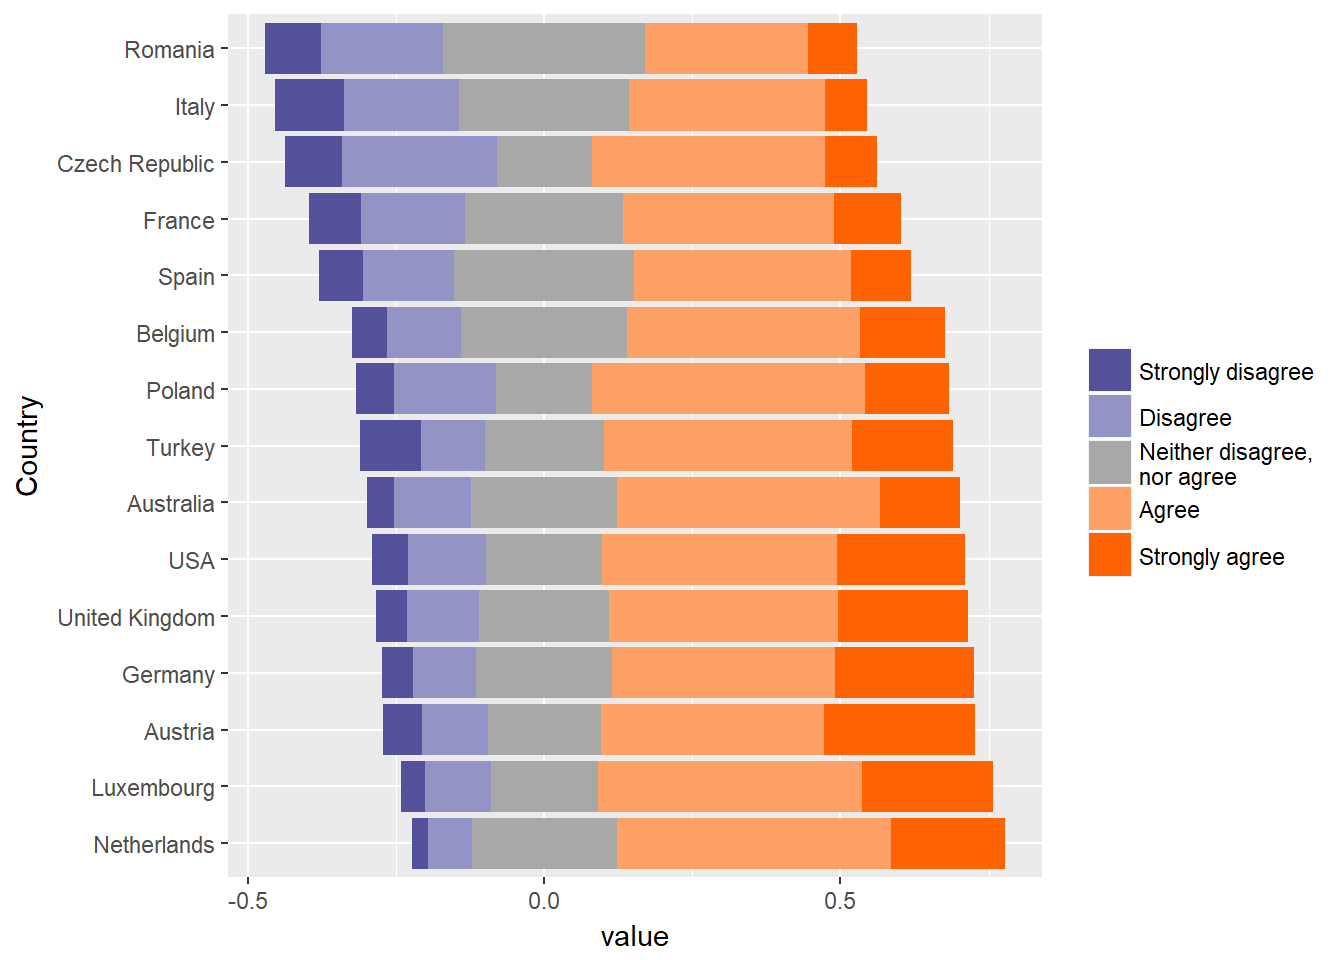
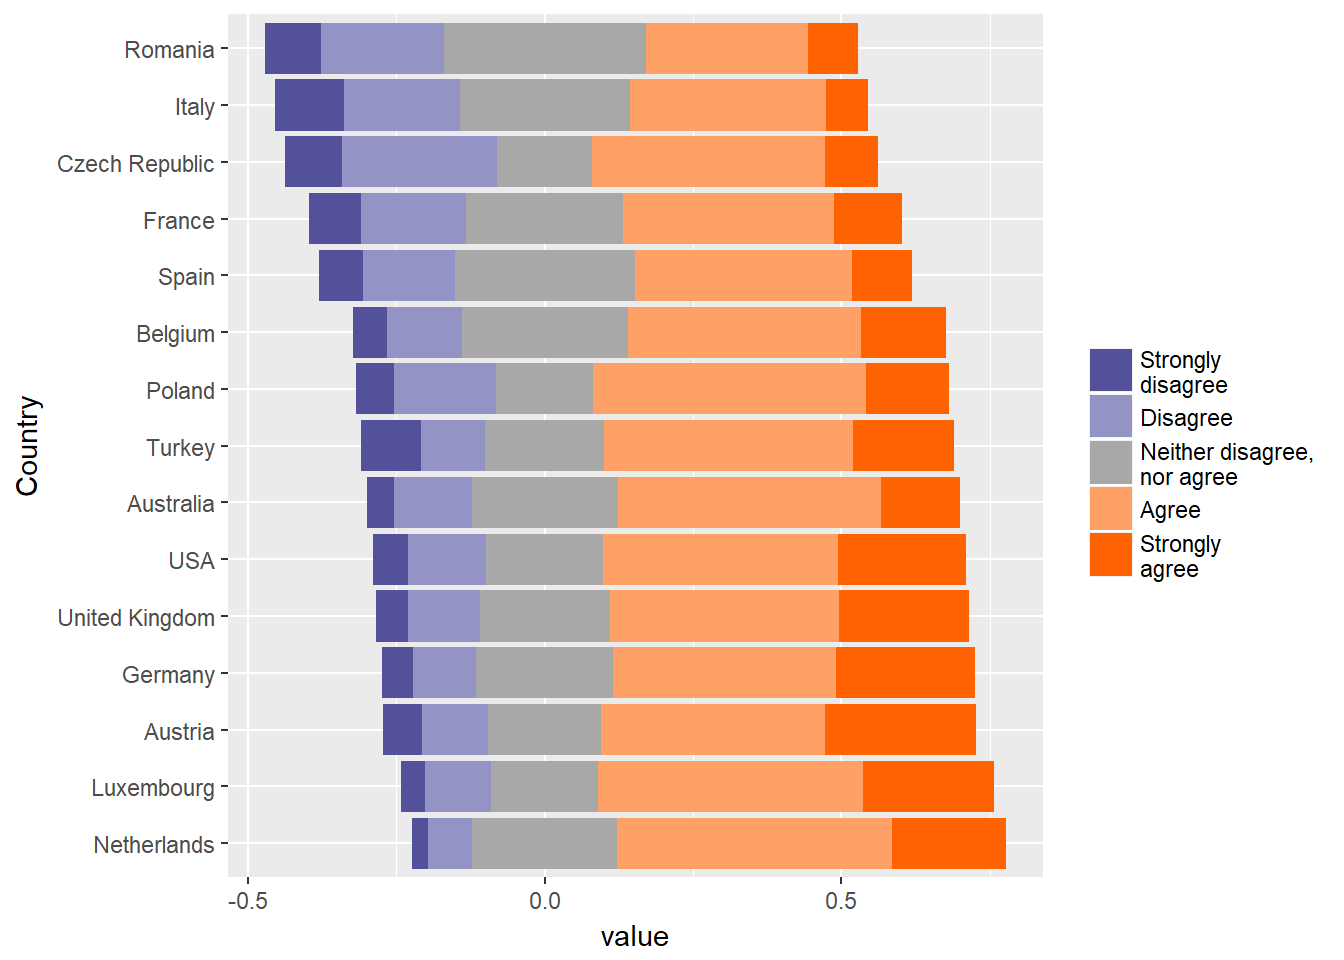
Lots of corrections.
Added coloring of data-labels. Bright on dark background and dark on bright background.

Changed region(s): [[0.8438, 0.3438, 0.9688, 0.625]]

diff --git a/plots.html b/plots.html
@@ -214,8 +214,8 @@ $(document).ready(function () {
 <li><p>The first one is more tedious, but allows for more flexibility. It uses <em>ggplot2</em> package and “geom_bar” aestethics. You can find it’s description here: <a href="http://rnotr.com/likert/ggplot/barometer/likert-plots/" class="uri">http://rnotr.com/likert/ggplot/barometer/likert-plots/</a></p></li>
 <li><p>The second one comes from the same author (<a href="http://rnotr.com/likert/ggplot/barometer/likert-plotly/" class="uri">http://rnotr.com/likert/ggplot/barometer/likert-plotly/</a>) and also uses <em>ggplot2</em> but with “geom_segment” aestethics. It is simpler and more concise, but also blocks “color” argument for other use on the chart. This might be a problem if you want to have data-labels on the chart and color them black on light background and white on dark background.</p></li>
 </ol>
-<div id="preparing-data." class="section level2">
-<h2>1. Preparing data.</h2>
+<div id="step-1.-preparing-data." class="section level2">
+<h2>Step 1. Preparing data.</h2>
 <p>Let’s start with preparing some survey data, accoring to a recipe described in “Home” tab.</p>
 <pre class="r"><code>data_2 &lt;- read.csv(&quot;survey_data.csv&quot;)
 answers &lt;- names(wpct(data_2$Question, weight = data_2$WeightPerCountry))
@@ -371,15 +371,25 @@ Germany
 </tr>
 </tbody>
 </table>
-<p>Our first step in obtaining Likert-style plot is to divide the middle group (in our case: “Neither agree nor disagree” group) into two equal subgroups. To do that mutate freq_table in the following way and then order the columns from least agreeable to most agreeable (getting rid of now obsolete <code>Neither agree nor disagree</code> column in the process).</p>
+<p>Our first step in obtaining Likert-style plot is to divide the middle group (in our case: “Neither agree nor disagree” group) into two equal subgroups. To do that mutate freq_table in the following way and then order the columns from least agreeable to most agreeable (getting rid of now obsolete <code>Neither agree nor disagree</code> column in the process). I will also add variables for negative data-labels positions (label_position for “Disagree” and label_position_2 for “Strongly disagree”). I will go back to them later.</p>
 <pre class="r"><code>freq_table_2 &lt;- freq_table_2 %&gt;% 
   mutate(Midlow = `Neither agree nor disagree`/2,
-         Midhigh = `Neither agree nor disagree`/2)
+         Midhigh = `Neither agree nor disagree`/2,
+         label_position = - Midlow - Disagree/2,
+         label_position_2 = - Midlow - Disagree - `Strongly disagree`/2)
 
-freq_table_2 &lt;- freq_table_2[c(1, 6, 3, 7, 8, 2, 5)]</code></pre>
-<p>Third step is to transform your data into a long format. One popular way of doing it is to use <em>melt</em> function from <em>reshape2</em> package. However, if you like to stay within <em>tidyverse</em> framework you may use a <em>gather</em> function from <em>dplyr</em> package. Let’s use it then…</p>
+freq_table_2 &lt;- freq_table_2[c(1, 6, 3, 7, 8, 2, 5, 9, 10)]
+
+# Transforming data-frame into a long format
+freq_table_long_2 &lt;- freq_table_2 %&gt;% 
+  gather(key = &quot;key&quot;, value = &quot;value&quot;, 2:7, - Country, - label_position, - label_position_2)</code></pre>
+<p>Third step is to transform your data into a long format. One popular way of doing it is to use <em>melt</em> function from <em>reshape2</em> package. However, if you like to stay within <em>tidyverse</em> framework you may use a <em>gather</em> function from <em>dplyr</em> package. I will also take this opportunity, to integrate two label_position variables into one (by <em>ifelse</em> statement) and add a label_color variable. I will use it to put white data-labels on dark background and black data-labels on bright background. I’ll explain that later</p>
+<p>However, long data format itself is not enough. You need to arrange it in the right way. Let’s start with the answers (denoted here as “key”). You need to define them as factor with levels spanning from least to most favourable (from “Strongly disagree” to “Strongly agree”) remembering that you got “Midhigh” and “Midlow” instead of one middle answer.</p>
+<p>Next, the countries or other variable you’d like to show on the plot. These are factors as well and you need to arrange them according to the length of the bar on the left or right of the neutral line on the plot.</p>
 <pre class="r"><code>freq_table_long_2 &lt;- freq_table_2 %&gt;% 
-  gather(key = &quot;key&quot;, value = &quot;value&quot;, 2:7, - Country)
+  gather(key = &quot;key&quot;, value = &quot;value&quot;, 2:7, - Country) %&gt;% 
+  mutate(label_position = ifelse(key == &quot;Strongly disagree&quot;, label_position_2, label_position), 
+         label_color = ifelse(key == &quot;Strongly agree&quot; | key == &quot;Strongly disagree&quot;, &quot;a&quot;, &quot;b&quot;)) # a variable to differentiate label-color depending on the background.
 
 freq_table_long_2$key &lt;- factor(freq_table_long_2$key, 
                                 levels = c(&quot;Strongly disagree&quot;,
@@ -397,11 +407,20 @@ to obtain:
 <th style="text-align:left;">
 Country
 </th>
+<th style="text-align:right;">
+label_position
+</th>
+<th style="text-align:right;">
+label_position_2
+</th>
 <th style="text-align:left;">
 key
 </th>
 <th style="text-align:right;">
 value
+</th>
+<th style="text-align:left;">
+label_color
 </th>
 </tr>
 </thead>
@@ -410,16 +429,31 @@ value
 <td style="text-align:left;">
 Australia
 </td>
+<td style="text-align:right;">
+-0.2764248
+</td>
+<td style="text-align:right;">
+-0.2764248
+</td>
 <td style="text-align:left;">
 Strongly disagree
 </td>
 <td style="text-align:right;">
 0.0452213
 </td>
+<td style="text-align:left;">
+a
+</td>
 </tr>
 <tr>
 <td style="text-align:left;">
 Austria
+</td>
+<td style="text-align:right;">
+-0.2395210
+</td>
+<td style="text-align:right;">
+-0.2395210
 </td>
 <td style="text-align:left;">
 Strongly disagree
@@ -427,10 +461,19 @@ Strongly disagree
 <td style="text-align:right;">
 0.0666986
 </td>
+<td style="text-align:left;">
+a
+</td>
 </tr>
 <tr>
 <td style="text-align:left;">
 Belgium
+</td>
+<td style="text-align:right;">
+-0.2944392
+</td>
+<td style="text-align:right;">
+-0.2944392
 </td>
 <td style="text-align:left;">
 Strongly disagree
@@ -438,10 +481,19 @@ Strongly disagree
 <td style="text-align:right;">
 0.0585932
 </td>
+<td style="text-align:left;">
+a
+</td>
 </tr>
 <tr>
 <td style="text-align:left;">
 Czech Republic
+</td>
+<td style="text-align:right;">
+-0.3900154
+</td>
+<td style="text-align:right;">
+-0.3900154
 </td>
 <td style="text-align:left;">
 Strongly disagree
@@ -449,10 +501,19 @@ Strongly disagree
 <td style="text-align:right;">
 0.0961085
 </td>
+<td style="text-align:left;">
+a
+</td>
 </tr>
 <tr>
 <td style="text-align:left;">
 France
+</td>
+<td style="text-align:right;">
+-0.3532435
+</td>
+<td style="text-align:right;">
+-0.3532435
 </td>
 <td style="text-align:left;">
 Strongly disagree
@@ -460,16 +521,28 @@ Strongly disagree
 <td style="text-align:right;">
 0.0888440
 </td>
+<td style="text-align:left;">
+a
+</td>
 </tr>
 <tr>
 <td style="text-align:left;">
 Germany
+</td>
+<td style="text-align:right;">
+-0.2476035
+</td>
+<td style="text-align:right;">
+-0.2476035
 </td>
 <td style="text-align:left;">
 Strongly disagree
 </td>
 <td style="text-align:right;">
 0.0525690
+</td>
+<td style="text-align:left;">
+a
 </td>
 </tr>
 </tbody>
@@ -496,13 +569,15 @@ highs$key &lt;- factor(highs$key, levels = c(&quot;Strongly agree&quot;,&quot;Ag
   coord_flip()</code></pre>
 <p><img src="plots_files/figure-html/unnamed-chunk-7-1.png" width="672" /></p>
 </div>
-<div id="adding-colors." class="section level2">
-<h2>2. Adding colors.</h2>
-<p>In order to align colors on the chart and on the legend you need to specify two palettes. One for legend - with separate color for each Likert-scale answer. And the other one with doubled color for the middle answer on the Likert scale (for “Midlow” and “Midhigh” separately). Moreover, we need to specify what will appear on the legend. I usually work with palette with violets for negative answers and oranges for positive ones with grey reserved for ambiguity:</p>
+<div id="step-2.-adding-colors." class="section level2">
+<h2>Step 2. Adding colors.</h2>
+<p>I like to design colors on the Likert plot in a way that makes the chart more intuitive and easier to read. The following rules seem to help in my opinion: * Assign warm colors for positive answers and cold colors for negative. * Assign saturated colors to strong answers (e.g. “Strongly agree”) and less saturated for more balanced opinions. * Assign grey color for ambiguity.</p>
+<p>For Likert-plot you need to specify two palettes. One for legend - with separate color for each Likert-scale answer. And the other one with doubled color for the middle answer on the Likert scale (for “Midlow” and “Midhigh” separately). Moreover, we need to specify what will appear on the legend. I also specify a third palette for colors of data-labels (just two of them: white and dark grey).</p>
 <pre class="r"><code>palette_legend &lt;- c(&quot;#525199&quot;, &quot;#9393C6&quot;, &quot;#A8A8A8&quot;, &quot;#FFA166&quot;, &quot;#FF6200&quot;)
 palette_plot &lt;- c(&quot;#525199&quot;, &quot;#9393C6&quot;, &quot;#A8A8A8&quot;, &quot;#A8A8A8&quot;, &quot;#FFA166&quot;, &quot;#FF6200&quot;)
+palette_labels &lt;- c(&quot;white&quot;, grey(.2))
 
-legend &lt;- c(&quot;Strongly disagree&quot;, &quot;Disagree&quot;, &quot;Neither disagree,\nnor agree&quot;, &quot;Agree&quot;, &quot;Strongly agree&quot;)</code></pre>
+legend &lt;- c(&quot;Strongly\ndisagree&quot;, &quot;Disagree&quot;, &quot;Neither disagree,\nnor agree&quot;, &quot;Agree&quot;, &quot;Strongly\nagree&quot;)</code></pre>
 <p>In order to include these colors in the plot we need to go back to the freq_table_long_2 and assign an appropriate color to each key by adding a new column. Next you need to split the table into highs and lows again and arrange them as factors in correct order.</p>
 <pre class="r"><code>freq_table_long_2$color &lt;- rep(palette_plot, each = length(unique(freq_table_long_2$Country)))
 
@@ -512,7 +587,7 @@ lows$key &lt;- factor(lows$key, levels = c(&quot;Strongly disagree&quot;, &quot;
 highs &lt;- freq_table_long_2[(nrow(freq_table_long_2)/2+1):nrow(freq_table_long_2),]
 highs$key &lt;- factor(highs$key, levels = c(&quot;Strongly agree&quot;,&quot;Agree&quot;, &quot;Midhigh&quot;))
 highs$color &lt;- factor(highs$color, levels = c(&quot;#FF6200&quot;,&quot;#FFA166&quot;,&quot;#A8A8A8&quot;))</code></pre>
-<p>Now we can draw the plot again, but this time the fill parameter in the geom_bar will be assigned the color variable instead of key variable. And it looks much better.</p>
+<p>Now we can draw the plot again, but this time the fill parameter in the geom_bar will be assigned the color variable instead of key variable.</p>
 <pre class="r"><code>chart &lt;- ggplot() +
   geom_bar(data = highs,
            aes(x = Country, 
@@ -532,62 +607,51 @@ highs$color &lt;- factor(highs$color, levels = c(&quot;#FF6200&quot;,&quot;#FFA1
 chart</code></pre>
 <p><img src="plots_files/figure-html/unnamed-chunk-10-1.png" width="672" /></p>
 <p>The chart looks nice, but a is a bit hard to read. You can easily assess the balance of opinion in a paricular country compared to other counries. But that’s generally it. If you’d like to know what percentage of population in Netherlands agrees or strongy agrees with the “Statment” the chart won’t be of much help. The x axis is essentially useless. The solution is to add data-labels.</p>
+</div>
+<div id="step-3.-adding-data-labels." class="section level2">
+<h2>Step 3. Adding data-labels.</h2>
 <p>Unfortunately, adding data-labels to a Likert-style chart is quite complicated. You need to do it separately for highs, lows and for the middle answer dataframes. It is easy for highs and for middle answers. The geom_text statement will do it for you in the following way:</p>
 <pre class="r"><code>chart &lt;- chart +
+  # Data-labels for positive answers
     geom_text(data = highs, 
               aes(label = ifelse(key == &quot;Midhigh&quot; | value &lt;= 0.05, &quot;&quot;, percent(value, accuracy = 1)),
                   x = Country, 
-                  y = value), 
-            size = 3, color = grey(.2), position = position_stack(vjust = 0.5)) +
+                  y = value,
+                  color = factor(label_color)), 
+            size = 3, position = position_stack(vjust = 0.5)) +
+  # Data-labels for ambiguity (Midhight + Midlow)
     geom_text(data = freq_table_2, 
           aes(label = scales::percent(Midlow + Midhigh, accuracy = 1), 
               x = Country, 
               y = 0),
-            size = 3, color = grey(.2))</code></pre>
-<p>Unfortunately, if you try to use the same function with lows dataframe, the labels will be ill-positioned. The “position = position_stack” parameter won’t work correctly. I hope this will be improved with one of the ggplot updates in the future. In the meantime, one needs to calculate the positions of lows labels manually.</p>
-</div>
-<div id="adding-data-labels." class="section level2">
-<h2>3. Adding data-labels.</h2>
-<p>In order to do so, you need to go back to freq_table_2 and assign a pair of variables (one for “disagree”&quot; and another one for “strongly disagree”). Next, you need to repete some steps from data preparation part and integrate the two variables into one via ifelse statment:</p>
-<pre class="r"><code># Attaching a pair of variable for data-label_position (for &quot;Disagree&quot; and &quot;Strongly disagree&quot; respectively)
-freq_table_2 &lt;- freq_table_2 %&gt;% 
-  mutate(label_position = - Midlow - Disagree/2,
-         label_position_2 = - Midlow - Disagree - `Strongly disagree`/2)
-
-# Transforming data-frame into a long format
-freq_table_long_2 &lt;- freq_table_2 %&gt;% 
-  gather(key = &quot;key&quot;, value = &quot;value&quot;, 2:7, - Country, - label_position, - label_position_2)
-
-# Ordering the stacking of bars (answers) on the plot
-freq_table_long_2$key &lt;- factor(freq_table_long_2$key, 
-                                levels = c(&quot;Strongly disagree&quot;,
-                                           &quot;Disagree&quot;,
-                                           &quot;Midlow&quot;, 
-                                           &quot;Midhigh&quot;,
-                                           &quot;Agree&quot;, 
-                                           &quot;Strongly agree&quot;)) 
-
-# Ordering the bars (Countries) on the plot
-freq_table_long_2$Country &lt;- factor(freq_table_long_2$Country,
-                                    levels = freq_table_2$Country[order(-(freq_table_2[, 5] + freq_table_2[, 6] + freq_table_2[, 7]))]) 
-
-# Integrating label_position variable into one
-freq_table_long_2 &lt;- freq_table_long_2 %&gt;% 
-  mutate(label_position = ifelse(key == &quot;Strongly disagree&quot;, label_position_2, label_position))
-
-# Defining a color of stacked bars (answers)
-freq_table_long_2$color &lt;- rep(palette_plot, each = length(unique(freq_table_long_2$Country)))
-
-# Re-creation of lows data-frame
-lows &lt;- freq_table_long_2[1:(nrow(freq_table_long_2)/2),]
-lows$key &lt;- factor(lows$key, levels = c(&quot;Strongly disagree&quot;, &quot;Disagree&quot;, &quot;Midlow&quot;))</code></pre>
-<p>Finally we can add data-labels for negative bars as well.</p>
+            size = 3, color = grey(.2)) +
+  scale_color_manual(values = palette_labels, guide = FALSE)</code></pre>
+<p>Unfortunately, if you try to use the same function with lows dataframe, the labels will be ill-positioned. The “position = position_stack” parameter won’t work correctly. I hope this will be improved with one of the ggplot updates in the future. Fortunately, we have already calculated the positions of data-labels for negative answers (data-preparation step) and stored them in label_position variable. We can use it in the following way.</p>
 <pre class="r"><code>chart &lt;- chart +
+  # Data-labels for negative answers
     geom_text(data = lows, 
               aes(label = ifelse(key == &quot;Midlow&quot; | value &lt;= 0.05, &quot;&quot;, percent(value, accuracy = 1)),
                   x = Country, 
-                  y = label_position),
-              size = 3, color = grey(.2))
+                  y = label_position,
+                  color = factor(label_color)),
+              size = 3) 
+chart</code></pre>
+<p><img src="plots_files/figure-html/unnamed-chunk-12-1.png" width="672" /></p>
+</div>
+<div id="step-4.-styling-of-the-chart." class="section level2">
+<h2>Step 4. Styling of the chart.</h2>
+<p>And some final touches. Let’s clean the plot from unnecessary non-data ink. And put some title, subtitle and caption to it. The exact dimentions could be corrected by trial ane error method directly in RStudio.</p>
+<pre class="r"><code>chart &lt;- chart +
+  labs(title = &quot;To what extent do you agree with the statment&quot;,
+       subtitle = &quot;Asked to 14 000 people who, ...&quot;,
+       caption = &quot;Some source&quot;) +
+  theme_classic() +
+  theme(axis.line = element_blank(),
+        axis.ticks = element_blank(),
+        axis.text.x = element_blank(),
+        axis.title = element_blank(),
+        legend.position = &quot;top&quot;,
+        text = element_text(color = grey(.2)))
 chart</code></pre>
 <p><img src="plots_files/figure-html/unnamed-chunk-13-1.png" width="672" /></p>
 </div>
